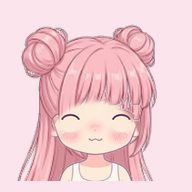
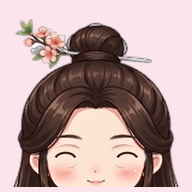
New main character (AI-generated chibi girl) with blink/happy faces; drop hair swapping
Claude-Session: https://claude.ai/code/session_013rW3iWcCHnwjRq7oDHQ6Zj

diff --git a/index.html b/index.html
@@ -38,7 +38,7 @@
   .sheet button,#sheet button{margin-top:14px;width:100%;border:0;border-radius:14px;padding:12px;background:#f29bb4;color:#fff;font-size:16px;font-weight:700;}
 
   #stage{flex:1;min-height:0;display:flex;align-items:center;justify-content:center;padding:4px 0;}
-  #doll{position:relative;height:100%;aspect-ratio:339/610;max-width:92vw;border-radius:24px;transition:background .3s;}
+  #doll{position:relative;height:100%;aspect-ratio:400/600;max-width:92vw;border-radius:24px;transition:background .3s;}
   #doll{overflow:visible;touch-action:manipulation;cursor:pointer;}
   #char{position:absolute;left:0;top:3%;width:100%;height:97%;transform-origin:50% 100%;animation:breathe 3s ease-in-out infinite;}
   #char img{position:absolute;inset:0;width:100%;height:100%;object-fit:contain;pointer-events:none;user-select:none;-webkit-user-drag:none;}
@@ -87,10 +87,9 @@
   <div id="stage">
     <div id="doll">
       <div id="char">
-        <img id="L-hairBack" src="" alt="">
         <img id="L-base" src="img/base.png" alt="Q 版小人">
+        <img id="L-clothes" src="" alt="">
         <img id="L-face" src="img/face/blink.png" alt="">
-        <img id="L-hairFront" src="" alt="">
       </div>
       <div id="bubble"></div>
       <div id="hint">點點她、摸摸頭看看 ♡</div>
@@ -118,13 +117,6 @@
 <script>
 // ===== 素材清單：之後加新衣服、新髮型只要在這裡加一行 =====
 const CATS = [
-  { id: 'hair', name: '髮型', items: [
-      { id: 'none', name: '光頭' },
-      { id: 'h1', icon: 'img/hair/1_icon.png', back: 'img/hair/1_back.png', front: 'img/hair/1_front.png' },
-      { id: 'h2', icon: 'img/hair/2_icon.png', back: 'img/hair/2_back.png', front: 'img/hair/2_front.png' },
-      { id: 'h3', icon: 'img/hair/3_icon.png', back: 'img/hair/3_back.png', front: 'img/hair/3_front.png' },
-      { id: 'h4', icon: 'img/hair/4_icon.png', back: 'img/hair/4_back.png', front: 'img/hair/4_front.png' },
-  ]},
   { id: 'clothes', name: '衣服', soon: true, items: [] },
   { id: 'bg', name: '背景', items: [
       { id: 'pink', color: '#fbe4ec' }, { id: 'mint', color: '#d9f0e6' }, { id: 'sky', color: '#dcecfb' },
@@ -137,16 +129,13 @@ const store = {
   get(){ try { return JSON.parse(localStorage.getItem('dressup') || '{}'); } catch(e){ return {}; } },
   set(v){ try { localStorage.setItem('dressup', JSON.stringify(v)); } catch(e){} },
 };
-const pick = Object.assign({ hair: 'h1', bg: 'pink' }, store.get());
-let tab = 'hair';
+const pick = Object.assign({ bg: 'pink' }, store.get());
+let tab = 'bg';
 const $ = id => document.getElementById(id);
 
 function find(cat, id){ return CATS.find(c => c.id === cat).items.find(i => i.id === id); }
 
 function render(){
-  const h = find('hair', pick.hair) || {};
-  $('L-hairBack').src = h.back || '';
-  $('L-hairFront').src = h.front || '';
   $('doll').style.background = (find('bg', pick.bg) || {}).color || '#fbe4ec';
 
   $('tabs').innerHTML = '';
@@ -177,11 +166,11 @@ function render(){
 }
 
 $('save').onclick = async () => {
-  const W = 678, H = 1220, cv = document.createElement('canvas');
+  const W = 800, H = 1200, cv = document.createElement('canvas');
   cv.width = W; cv.height = H;
   const g = cv.getContext('2d');
   g.fillStyle = $('doll').style.background || '#fbe4ec'; g.fillRect(0, 0, W, H);
-  for (const id of ['L-hairBack', 'L-base', 'L-hairFront']) {
+  for (const id of ['L-base', 'L-clothes']) {
     const el = $(id);
     if (!el.getAttribute('src')) continue;
     await (el.complete ? Promise.resolve() : new Promise(r => el.onload = r));
@@ -206,9 +195,9 @@ $('save').onclick = async () => {
 const LINES = {
   head:  ['嘿嘿～', '好舒服～', '再摸一下嘛', '喜歡被摸頭♡', '呼嚕嚕～'],
   body:  ['好癢！', '哇！', '嘻嘻', '陪我玩～', '跳跳！'],
-  hair:  ['好看嗎？', '換新髮型囉！', '這個我喜歡～', '轉一圈給你看！'],
+  clothes: ['好看嗎？', '換新衣服囉！', '這件我喜歡～', '轉一圈給你看！'],
   bg:    ['這裡好漂亮～', '換個地方玩！', '哇～'],
-  idle:  ['在發呆嗎？', '點點我嘛～', '今天想穿什麼呢？', '幫我換個髮型？'],
+  idle:  ['在發呆嗎？', '點點我嘛～', '今天想穿什麼呢？', '摸摸我的頭嘛～'],
   many:  ['不要一直戳啦！', '好啦好啦～', '頭暈了…'],
 };
 const rnd = a => a[Math.floor(Math.random() * a.length)];
@@ -249,7 +238,7 @@ function react(kind, x, y){
   lastTouch = Date.now(); $('hint').style.opacity = 0;
   const r = doll.getBoundingClientRect();
   if (x === undefined){ x = r.width / 2; y = r.height * .3; }
-  if (kind === 'hair'){ anim('spin'); setFace('happy', 1300); say(rnd(LINES.hair)); burst(x, y, ['✦', '✧', '♡'], 8); }
+  if (kind === 'clothes'){ anim('spin'); setFace('happy', 1300); say(rnd(LINES.clothes)); burst(x, y, ['✦', '✧', '♡'], 8); }
   else if (kind === 'bg'){ anim('jump'); setFace('happy', 900); say(rnd(LINES.bg)); burst(x, y, ['✦', '✧'], 6); }
 }
 
@@ -260,7 +249,7 @@ doll.addEventListener('pointerdown', ev => {
   buzz(); lastTouch = Date.now(); $('hint').style.opacity = 0;
   taps = taps.filter(t => Date.now() - t < 2500); taps.push(Date.now());
   if (taps.length >= 6){ taps = []; anim('shy'); setFace('blink', 1200); say(rnd(LINES.many)); burst(x, y, ['💫', '✧'], 5); return; }
-  if (fy < .42){ anim('pat'); setFace('happy', 1200); say(rnd(LINES.head)); burst(x, y, ['♥', '♡', '❤'], 7); }
+  if (fy < .5){ anim('pat'); setFace('happy', 1200); say(rnd(LINES.head)); burst(x, y, ['♥', '♡', '❤'], 7); }
   else { anim('jump'); setFace('happy', 700); say(rnd(LINES.body)); burst(x, y, ['✦', '♪', '♡'], 6); }
 });
 

diff --git a/sw.js b/sw.js
@@ -1,7 +1,7 @@
 // 換裝小屋 Service Worker
 // 策略：有網路時一律先抓最新版（所以一更新就看得到），沒網路才用手機裡存的舊版。
 // 每次改檔案，把 VERSION +1，手機會自動換成新版。
-const VERSION = 9;
+const VERSION = 10;
 const CACHE = 'dressup-v' + VERSION;
 
 self.addEventListener('install', e => {
